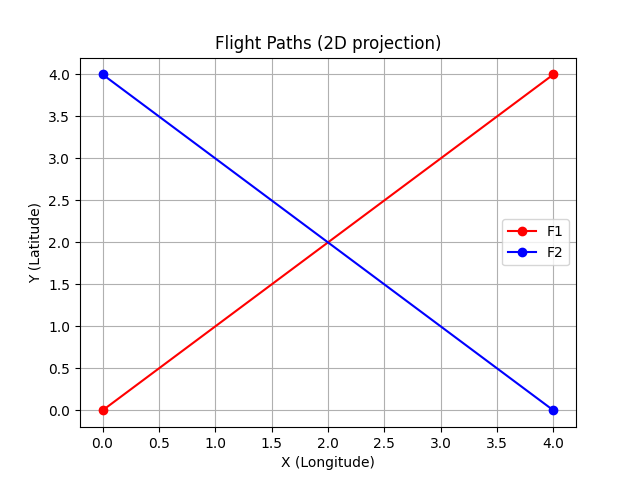
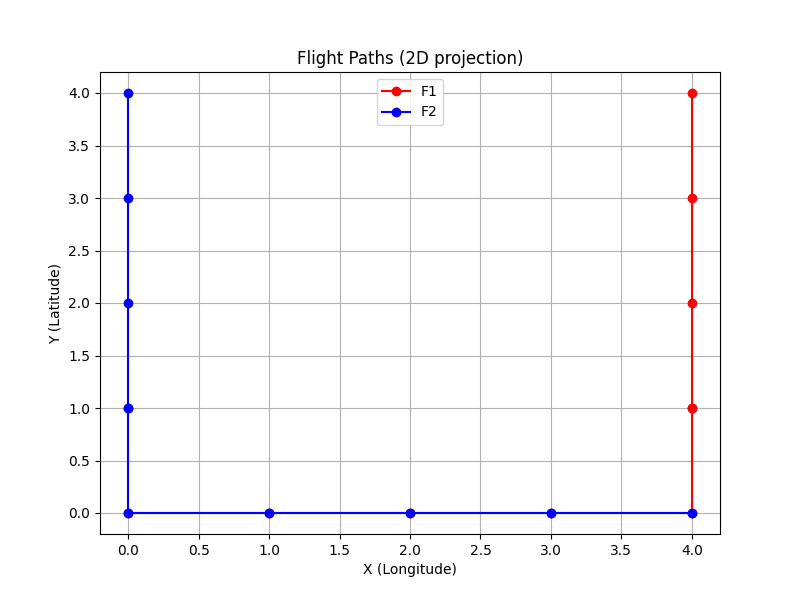
Implement code changes to enhance functionality and improve performance

diff --git a/airspace_model.py b/airspace_model.py
@@ -1,27 +1,24 @@
 import networkx as nx
 import matplotlib
-matplotlib.use('Agg')  # Use a backend that does not need GUI support
+matplotlib.use('Agg')  # For environments without GUI, change to 'TkAgg' or remove for local GUI
 import matplotlib.pyplot as plt
+from matplotlib.animation import FuncAnimation
+from mpl_toolkits.mplot3d import Axes3D
 import numpy as np
+import os
 
-# Dimensions of the airspace
-X_DIM = 5  # east-west
-Y_DIM = 5  # north-south
-Z_DIM = 3  # altitude levels
-T_MAX = 10  # time steps
+# Airspace dimensions
+X_DIM, Y_DIM, Z_DIM, T_MAX = 5, 5, 3, 10
 
 def create_4d_grid():
-    G = nx.DiGraph()  # Directed graph: movement from one step to another
-
+    G = nx.DiGraph()
     for t in range(T_MAX):
         for x in range(X_DIM):
             for y in range(Y_DIM):
                 for z in range(Z_DIM):
                     node = (x, y, z, t)
                     G.add_node(node)
-
-                    # Define possible movements (up/down/left/right/altitude)
-                    for dx, dy, dz in [(-1,0,0), (1,0,0), (0,-1,0), (0,1,0), (0,0,1), (0,0,-1), (0,0,0)]:
+                    for dx, dy, dz in [(-1,0,0),(1,0,0),(0,-1,0),(0,1,0),(0,0,1),(0,0,-1),(0,0,0)]:
                         nx_ = x + dx
                         ny_ = y + dy
                         nz_ = z + dz
@@ -29,38 +26,70 @@ def create_4d_grid():
                             next_node = (nx_, ny_, nz_, t+1)
                             if t+1 < T_MAX:
                                 G.add_edge(node, next_node)
-
     return G
 
-
-# Sample flight definition
 def define_flights():
-    return [
+    # For demo, flights move linearly in x,y,z over time steps 0..9
+    # Generate intermediate positions as well
+    flights = [
         {
             "id": "F1",
-            "start": (0, 0, 0, 0),
-            "end": (4, 4, 0, 9)
+            "path": [(x, x, 0, t) for t, x in enumerate(np.linspace(0, 4, T_MAX).astype(int))]
         },
         {
             "id": "F2",
-            "start": (4, 0, 1, 0),
-            "end": (0, 4, 1, 9)
+            "path": [(4 - t, t, 1, t) for t in range(T_MAX)]
         }
     ]
+    return flights
 
-# Visualize flight paths (simplified 2D)
-def visualize_flights(flights):
+def animate_flights_3d(flights):
+    fig = plt.figure()
+    ax = fig.add_subplot(111, projection='3d')
+
+    ax.set_xlim(0, X_DIM-1)
+    ax.set_ylim(0, Y_DIM-1)
+    ax.set_zlim(0, Z_DIM-1)
+
+    ax.set_xlabel("X (Longitude)")
+    ax.set_ylabel("Y (Latitude)")
+    ax.set_zlabel("Z (Altitude)")
+    ax.set_title("Flight Paths 3D Animation")
+
     colors = ['r', 'b', 'g', 'm']
+    flight_lines = []
+    flight_dots = []
+
+    # Initialize lines and dots for each flight
     for i, flight in enumerate(flights):
-        x = [flight['start'][0], flight['end'][0]]
-        y = [flight['start'][1], flight['end'][1]]
-        plt.plot(x, y, marker='o', label=flight['id'], color=colors[i % len(colors)])
-    plt.title("Flight Paths (2D projection)")
-    plt.xlabel("X (Longitude)")
-    plt.ylabel("Y (Latitude)")
-    plt.grid(True)
-    plt.legend()
-    plt.savefig("./images/flight_paths.png")  # Save to a PNG image
+        # Start with empty lines/dots
+        line, = ax.plot([], [], [], color=colors[i % len(colors)], label=flight["id"])
+        dot, = ax.plot([], [], [], marker='o', color=colors[i % len(colors)])
+        flight_lines.append(line)
+        flight_dots.append(dot)
+
+    ax.legend()
+
+    def update(t):
+        for i, flight in enumerate(flights):
+            # Select all points up to current time step t
+            path = flight["path"][:t+1]
+            if not path:
+                continue
+            xs, ys, zs, ts = zip(*path)
+            flight_lines[i].set_data(xs, ys)
+            flight_lines[i].set_3d_properties(zs)
+
+            # Dot at current position
+            flight_dots[i].set_data(xs[-1:], ys[-1:])
+            flight_dots[i].set_3d_properties(zs[-1:])
+        return flight_lines + flight_dots
+
+    anim = FuncAnimation(fig, update, frames=T_MAX, interval=800, blit=True)
+
+    os.makedirs('images', exist_ok=True)
+    anim.save('images/flight_paths_3d.gif', writer='imagemagick')
+    print("3D animation saved as images/flight_paths_3d.gif")
 
 if __name__ == "__main__":
     grid = create_4d_grid()
@@ -68,4 +97,4 @@ if __name__ == "__main__":
     print(f"Total Edges: {len(grid.edges)}")
 
     flights = define_flights()
-    visualize_flights(flights)
+    animate_flights_3d(flights)
